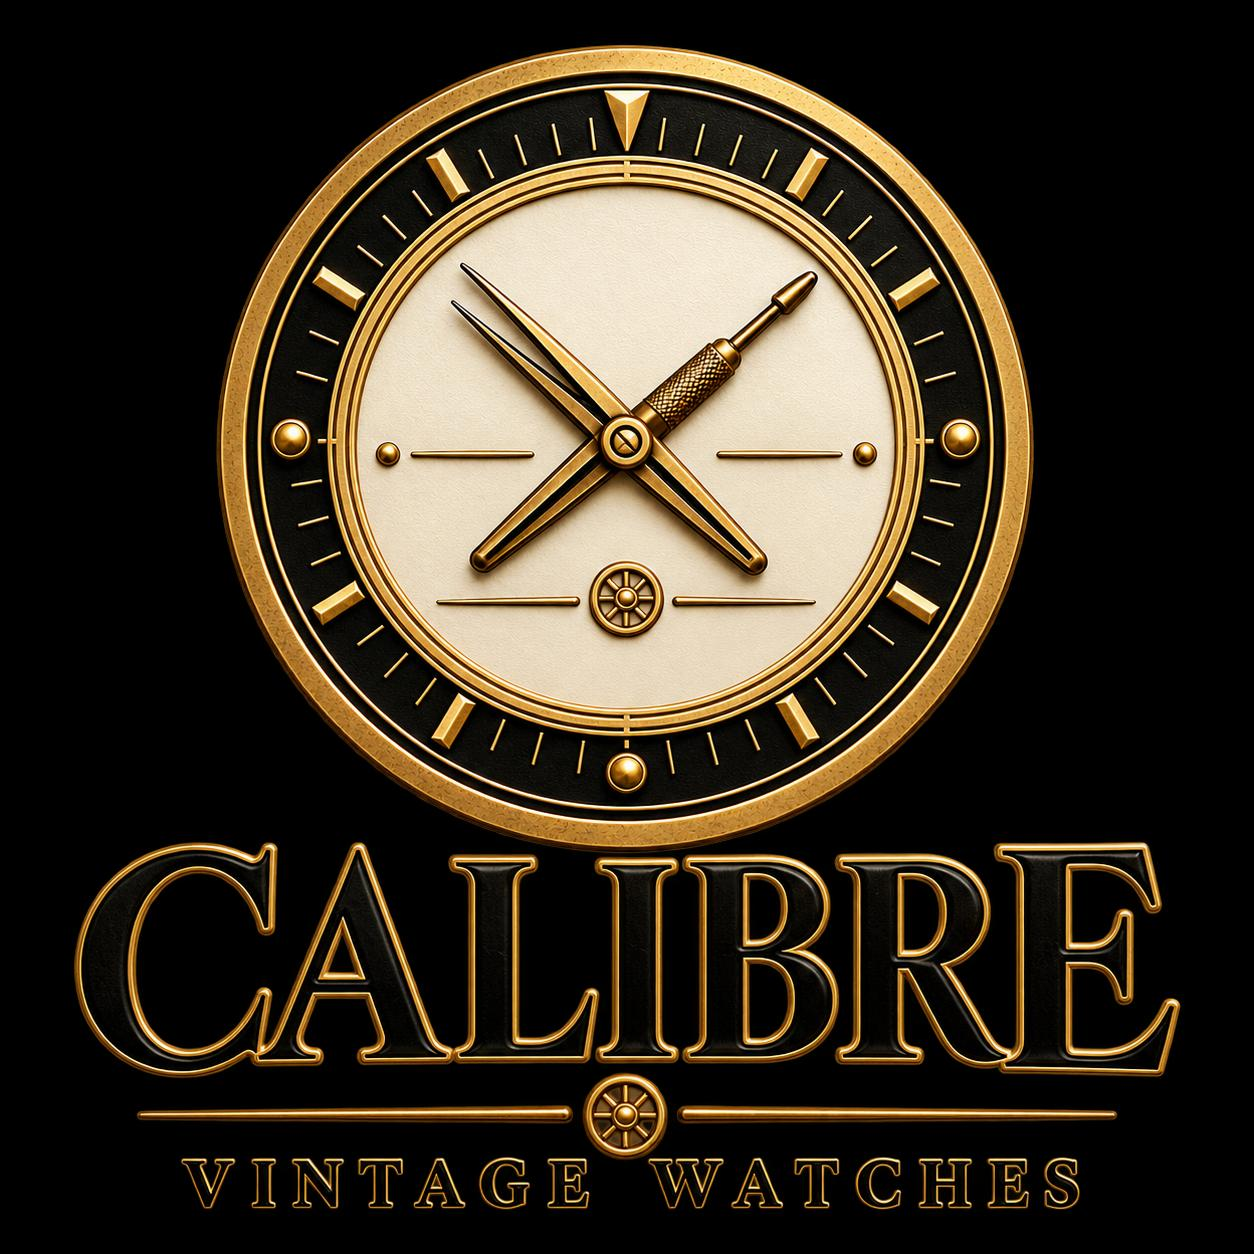
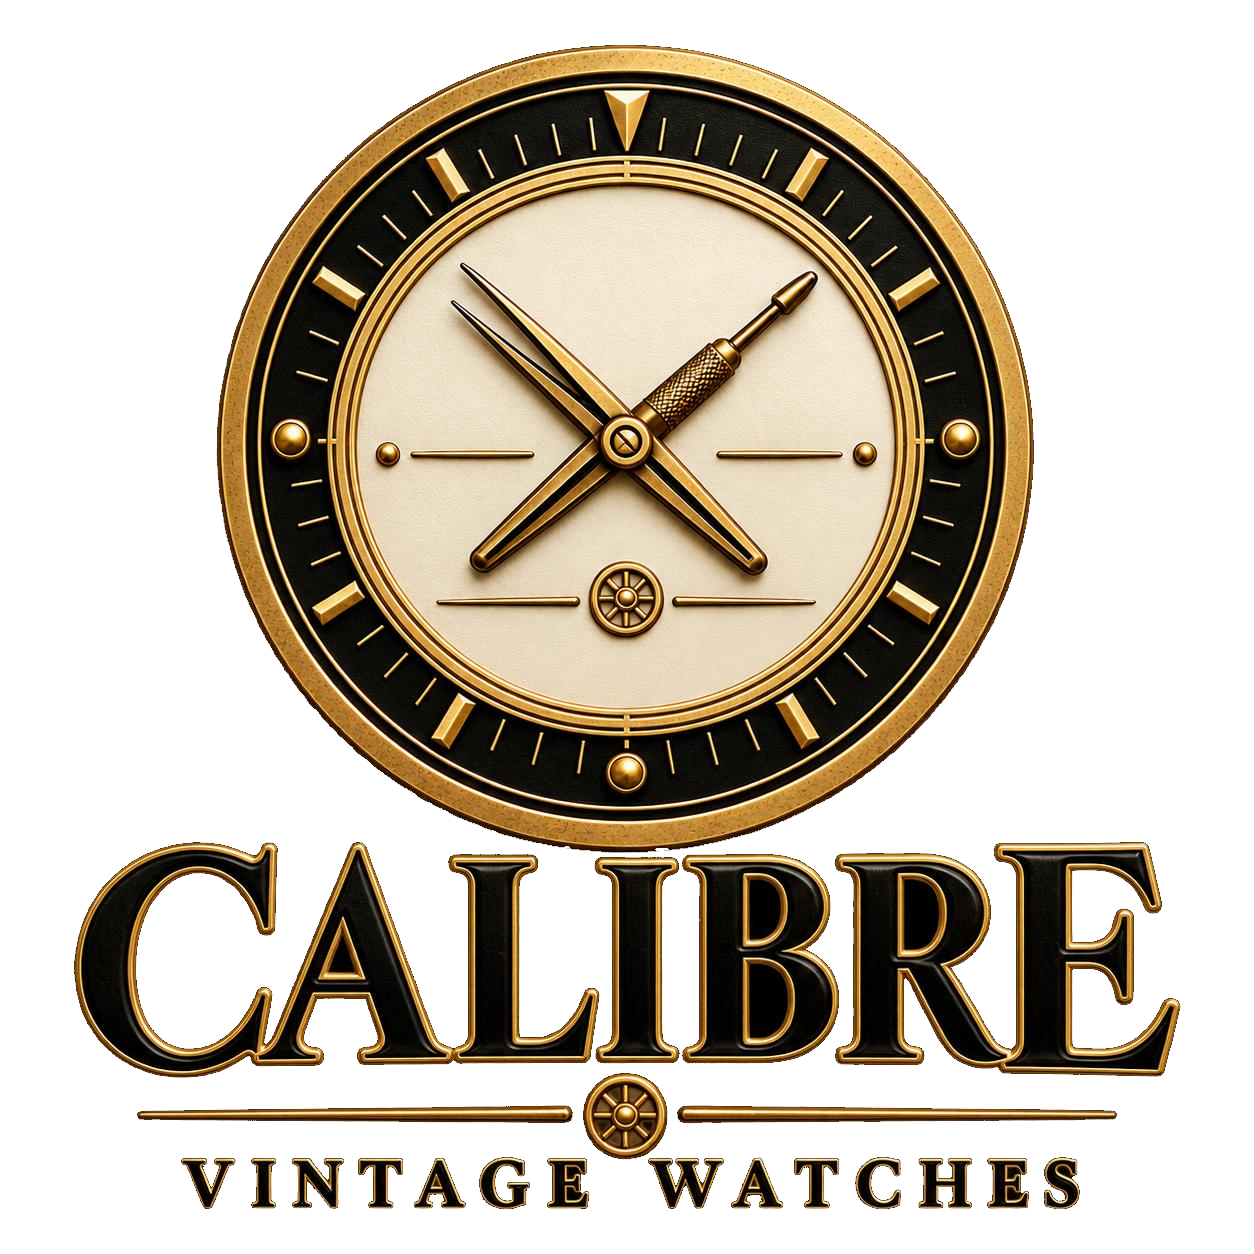
Make the Calibre marks transparent

diff --git a/summary.html b/summary.html
@@ -17,7 +17,7 @@
 </div>
 <p id="statusText" class="muted small no-print"></p>
 </div>
-<script src="js/nav.js?v=7"></script>
+<script src="js/nav.js?v=8"></script>
 <script type="module">
 import { STAGES, loadState, saveState, current, exportCard, money, labourCost, investment, markSpares } from "./js/store.js?v=5";
 import { STAGE_COPY } from "./js/stages.js?v=8";
@@ -42,7 +42,7 @@ const stages = job.stages.map((s,i) => {
   return `<div class='line'><span>${title}</span><strong>${s.complete?"Done. ":""}${bits||"Opened"}</strong></div>`;
 }).join("");
 const runs = (job.timingRuns||[]).slice(0,4).map(r => `<div class='line'><span>${r.position}</span><strong>${r.rate>=0?"+":""}${Number(r.rate).toFixed(0)} s/day</strong></div>`).join("");
-$("sheet").innerHTML = `<img class="wordmark" src="assets/wordmark.png?v=2" alt="Calibre vintage watches"><h2>${job.watchName}</h2><p class='muted small'>${job.jobId}</p>`+lines.map(x=>`<div class='line'><span>${x[0]}</span><strong>${x[1]}</strong></div>`).join("")+(p.notes?`<p>${p.notes}</p>`:"")+`<h3>Work</h3>`+(stages||"<p class='muted'>No stage notes.</p>")+(runs?`<h3>Timing</h3>${runs}`:"");
+$("sheet").innerHTML = `<img class="wordmark" src="assets/wordmark.png?v=3" alt="Calibre vintage watches"><h2>${job.watchName}</h2><p class='muted small'>${job.jobId}</p>`+lines.map(x=>`<div class='line'><span>${x[0]}</span><strong>${x[1]}</strong></div>`).join("")+(p.notes?`<p>${p.notes}</p>`:"")+`<h3>Work</h3>`+(stages||"<p class='muted'>No stage notes.</p>")+(runs?`<h3>Timing</h3>${runs}`:"");
 function download(name, data){ const a = document.createElement("a"); a.href = URL.createObjectURL(new Blob([JSON.stringify(data,null,2)],{type:"application/json"})); a.download = name; a.click(); }
 $("completeJob").onclick = async () => {
   if (!confirm("Mark "+job.watchName+" complete?")) return;

diff --git a/index.html b/index.html
@@ -6,7 +6,7 @@
 <div class="shell">
 <header class="brandbar"><a class="brand" href="index.html"><div class="brandmark">C&C</div><div><div class="kicker">CALIBRE & CO.</div><h1>Watchmaker's Workbench</h1></div></a></header>
 <nav class="mainnav"><a class="navbtn active" href="index.html" aria-current="page">Start</a><a class="navbtn" href="workbench.html">Bench</a><a class="navbtn" href="timegrapher.html">Time</a><a class="navbtn" href="passport.html">Identity</a><a class="navbtn" href="business.html">Cost</a><a class="navbtn" href="summary.html">Sheet</a><a class="navbtn" href="inventory.html">Stock</a><a class="navbtn" href="suppliers.html">Parts</a></nav>
-<div class="hero"><div><img class="seal" src="assets/seal-cream.png?v=2" alt="Calibre, vintage watches"><div class="kicker">OPEN WATCH</div><h2 id="watchTitle">Loading</h2><p id="watchMeta" class="muted"></p></div></div>
+<div class="hero"><div><img class="seal" src="assets/seal-cream.png?v=3" alt="Calibre, vintage watches"><div class="kicker">OPEN WATCH</div><h2 id="watchTitle">Loading</h2><p id="watchMeta" class="muted"></p></div></div>
 <section class="card">
 <label>Search<input id="q" autocomplete="off" enterkeyhint="search" placeholder="Serial, brand, part, calibre"></label>
 <div id="found" class="jobs"></div>
@@ -23,7 +23,7 @@
 <p id="statusText" class="muted small"></p></section>
 <section class="card"><h3>Inventory</h3><p class="muted small">Finished watches and the ones that became parts.</p><div id="stockList" class="jobs"></div></section>
 </div>
-<script src="js/nav.js?v=7"></script>
+<script src="js/nav.js?v=8"></script>
 <script type="module">
 import { loadState, saveState, blankJob, current, importCard } from "./js/store.js?v=5";
 import { fillResults } from "./js/search.js?v=7";

diff --git a/passport.html b/passport.html
@@ -6,7 +6,7 @@
 <div class="shell">
 <header class="brandbar"><a class="brand" href="index.html"><div class="brandmark">C&C</div><div><div class="kicker">CALIBRE & CO.</div><h1>Watchmaker's Workbench</h1></div></a></header>
 <nav class="mainnav"><a class="navbtn" href="index.html">Start</a><a class="navbtn" href="workbench.html">Bench</a><a class="navbtn" href="timegrapher.html">Time</a><a class="navbtn active" href="passport.html" aria-current="page">Identity</a><a class="navbtn" href="business.html">Cost</a><a class="navbtn" href="summary.html">Sheet</a><a class="navbtn" href="inventory.html">Stock</a><a class="navbtn" href="suppliers.html">Parts</a></nav>
-<div class="hero"><div><img class="seal dark" src="assets/seal-black.png?v=2" alt="Calibre"><div class="kicker">THIS WATCH</div><h2 id="watchTitle">Identity</h2></div></div>
+<div class="hero"><div><img class="seal dark" src="assets/seal-black.png?v=3" alt="Calibre"><div class="kicker">THIS WATCH</div><h2 id="watchTitle">Identity</h2></div></div>
 <section class="card">
 <div class="grid2">
 <label>Maker<input id="maker"></label><label>Model<input id="model"></label>
@@ -22,7 +22,7 @@
 <label>Research / history<textarea id="history" rows="4"></textarea></label>
 <p id="statusText" class="muted small">Loading…</p>
 </section></div>
-<script src="js/nav.js?v=7"></script>
+<script src="js/nav.js?v=8"></script>
 <script type="module">
 import { loadState, saveState, current } from "./js/store.js?v=5";
 const $ = id => document.getElementById(id);

diff --git a/js/nav.js b/js/nav.js
@@ -8,14 +8,14 @@ document.querySelectorAll("nav.mainnav").forEach(function(nav){
   }).join("");
 });
 var markStyle = document.createElement("style");
-markStyle.textContent = ".brandmark{padding:0;overflow:hidden;background:#111}.brandmark img{width:42px;height:42px;object-fit:cover;display:block}.seal{display:block;width:min(168px,42vw);height:auto;margin:4px auto 12px}.seal.dark{border-radius:50%}.wordmark{display:block;width:min(440px,100%);height:auto;margin:0 auto 14px}";
+markStyle.textContent = ".brandmark{padding:0;overflow:hidden;background:transparent}.brandmark img{width:42px;height:42px;object-fit:cover;display:block}.seal{display:block;width:min(168px,42vw);height:auto;margin:4px auto 12px}.seal.dark{border-radius:50%}.wordmark{display:block;width:min(440px,100%);height:auto;margin:0 auto 14px}";
 document.head.appendChild(markStyle);
 document.querySelectorAll(".brandmark").forEach(function(el){
-  el.innerHTML = "<img src=\"assets/mark.png?v=2\" alt=\"\">";
+  el.innerHTML = "<img src=\"assets/mark.png?v=3\" alt=\"\">";
 });
 if (!document.querySelector("link[rel=icon]")){
   var icon = document.createElement("link");
   icon.rel = "icon";
-  icon.href = "assets/mark.png?v=2";
+  icon.href = "assets/mark.png?v=3";
   document.head.appendChild(icon);
 }

diff --git a/settings.html b/settings.html
@@ -12,7 +12,7 @@
     <a class="brand" href="index.html"><div class="brandmark">C&C</div><div><div class="kicker">CALIBRE & CO.</div><h1>Watchmaker's Workbench</h1></div></a>
   </header>
   <nav class="mainnav"><a class="navbtn" href="index.html">Start</a><a class="navbtn" href="workbench.html">Bench</a><a class="navbtn" href="timegrapher.html">Time</a><a class="navbtn" href="passport.html">Identity</a><a class="navbtn" href="business.html">Cost</a><a class="navbtn" href="summary.html">Sheet</a><a class="navbtn" href="inventory.html">Stock</a><a class="navbtn" href="suppliers.html">Parts</a></nav>
-  <script src="js/nav.js?v=7"></script>
+  <script src="js/nav.js?v=8"></script>
   <div class="hero"><div><div class="kicker">LOCAL</div><h2>No model in the app</h2><p class="muted">Jobs stay on this phone. A new watch can be pasted in from chat on the Jobs page.</p></div></div>
   <section class="card"><p class="small">Paste a job JSON into Jobs, then Open pasted job. Photos are not in that paste. Export all jobs writes a backup file.</p></section>
 </div>

diff --git a/inventory.html b/inventory.html
@@ -10,7 +10,7 @@
 <section class="card"><h3>Complete <span id="doneCount" class="muted"></span></h3><div id="done" class="jobs"></div></section>
 <section class="card"><h3>Spares <span id="spareCount" class="muted"></span></h3><p class="muted small">Not recovered, or damaged in the repair. What is still usable is listed on Parts.</p><div id="spares" class="jobs"></div></section>
 </div>
-<script src="js/nav.js?v=7"></script>
+<script src="js/nav.js?v=8"></script>
 <script type="module">
 import { loadState, saveState, money, investment } from "./js/store.js";
 const state = await loadState();

diff --git a/suppliers.html b/suppliers.html
@@ -46,7 +46,7 @@
 <p class="muted small">Untick a part when it is gone. Write a size on the bench stage that used it. The cost goes on Cost.</p>
 </section>
 </div>
-<script src="js/nav.js?v=7"></script>
+<script src="js/nav.js?v=8"></script>
 <script type="module">
 import { loadState, saveState, current, escapeHtml } from "./js/store.js?v=5";
 import { SPARE_PARTS, matchPart } from "./js/match.js?v=5";

diff --git a/business.html b/business.html
@@ -25,7 +25,7 @@
 </div>
 <p id="statusText" class="muted small">Loading…</p>
 </section></div>
-<script src="js/nav.js?v=7"></script>
+<script src="js/nav.js?v=8"></script>
 <script type="module">
 import { loadState, saveState, current, money, labourCost, investment } from "./js/store.js";
 const $ = id => document.getElementById(id);

diff --git a/workbench.html b/workbench.html
@@ -39,7 +39,7 @@
 </div>
 <p class="autosave" id="statusText">Loading…</p>
 </section></div>
-<script src="js/nav.js?v=7"></script>
+<script src="js/nav.js?v=8"></script>
 <script type="module">
 import { STAGES, loadState, saveState, current, markSpares } from "./js/store.js?v=5";
 import { STAGE_COPY } from "./js/stages.js?v=8";

diff --git a/timegrapher.html b/timegrapher.html
@@ -31,7 +31,7 @@
 <p id="tgHint" class="muted small">Loading…</p>
 <div id="savedRuns"></div>
 </section></div>
-<script src="js/nav.js?v=7"></script>
+<script src="js/nav.js?v=8"></script>
 <script type="module">
 import { loadState, saveState, current } from "./js/store.js";
 import { suggestBph } from "./js/bph.js";

diff --git a/assistant.html b/assistant.html
@@ -20,7 +20,7 @@
     <p id="err" class="muted small"></p>
   </section>
 </div>
-<script src="js/nav.js?v=7"></script>
+<script src="js/nav.js?v=8"></script>
 <script type="module">
 import { loadState, current, jobBrief } from "./js/store.js";
 const $ = id => document.getElementById(id);
